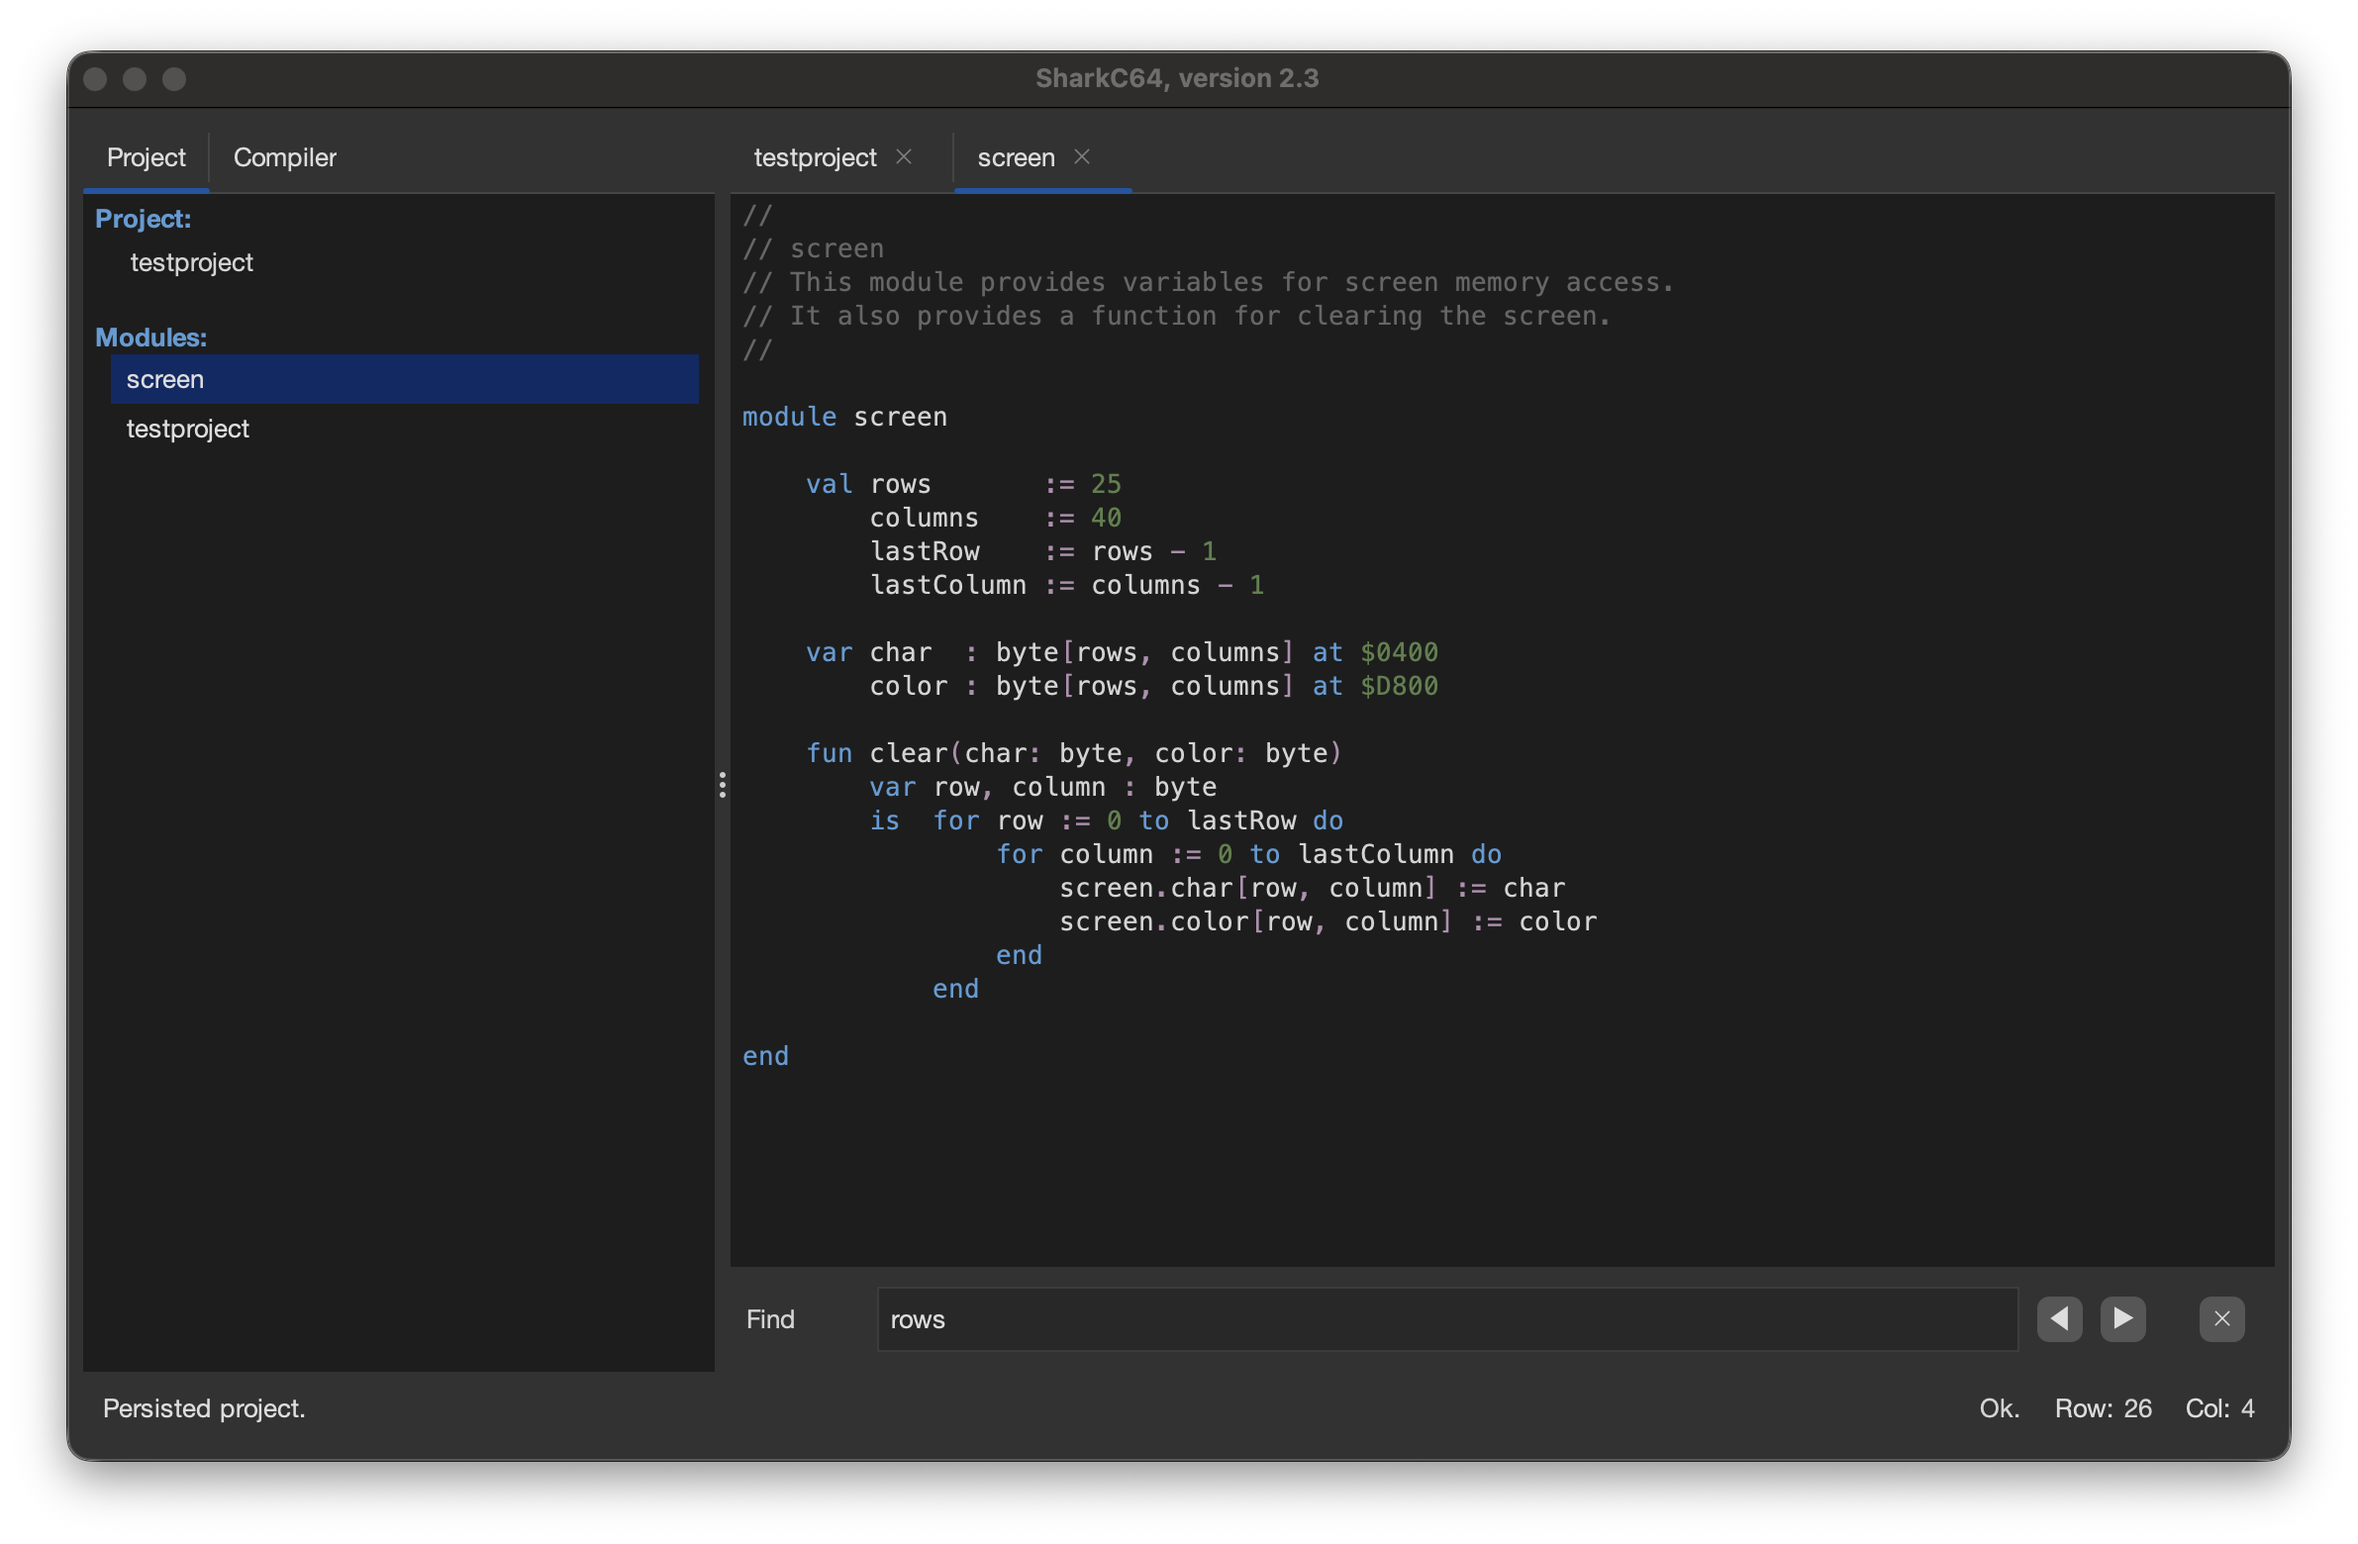
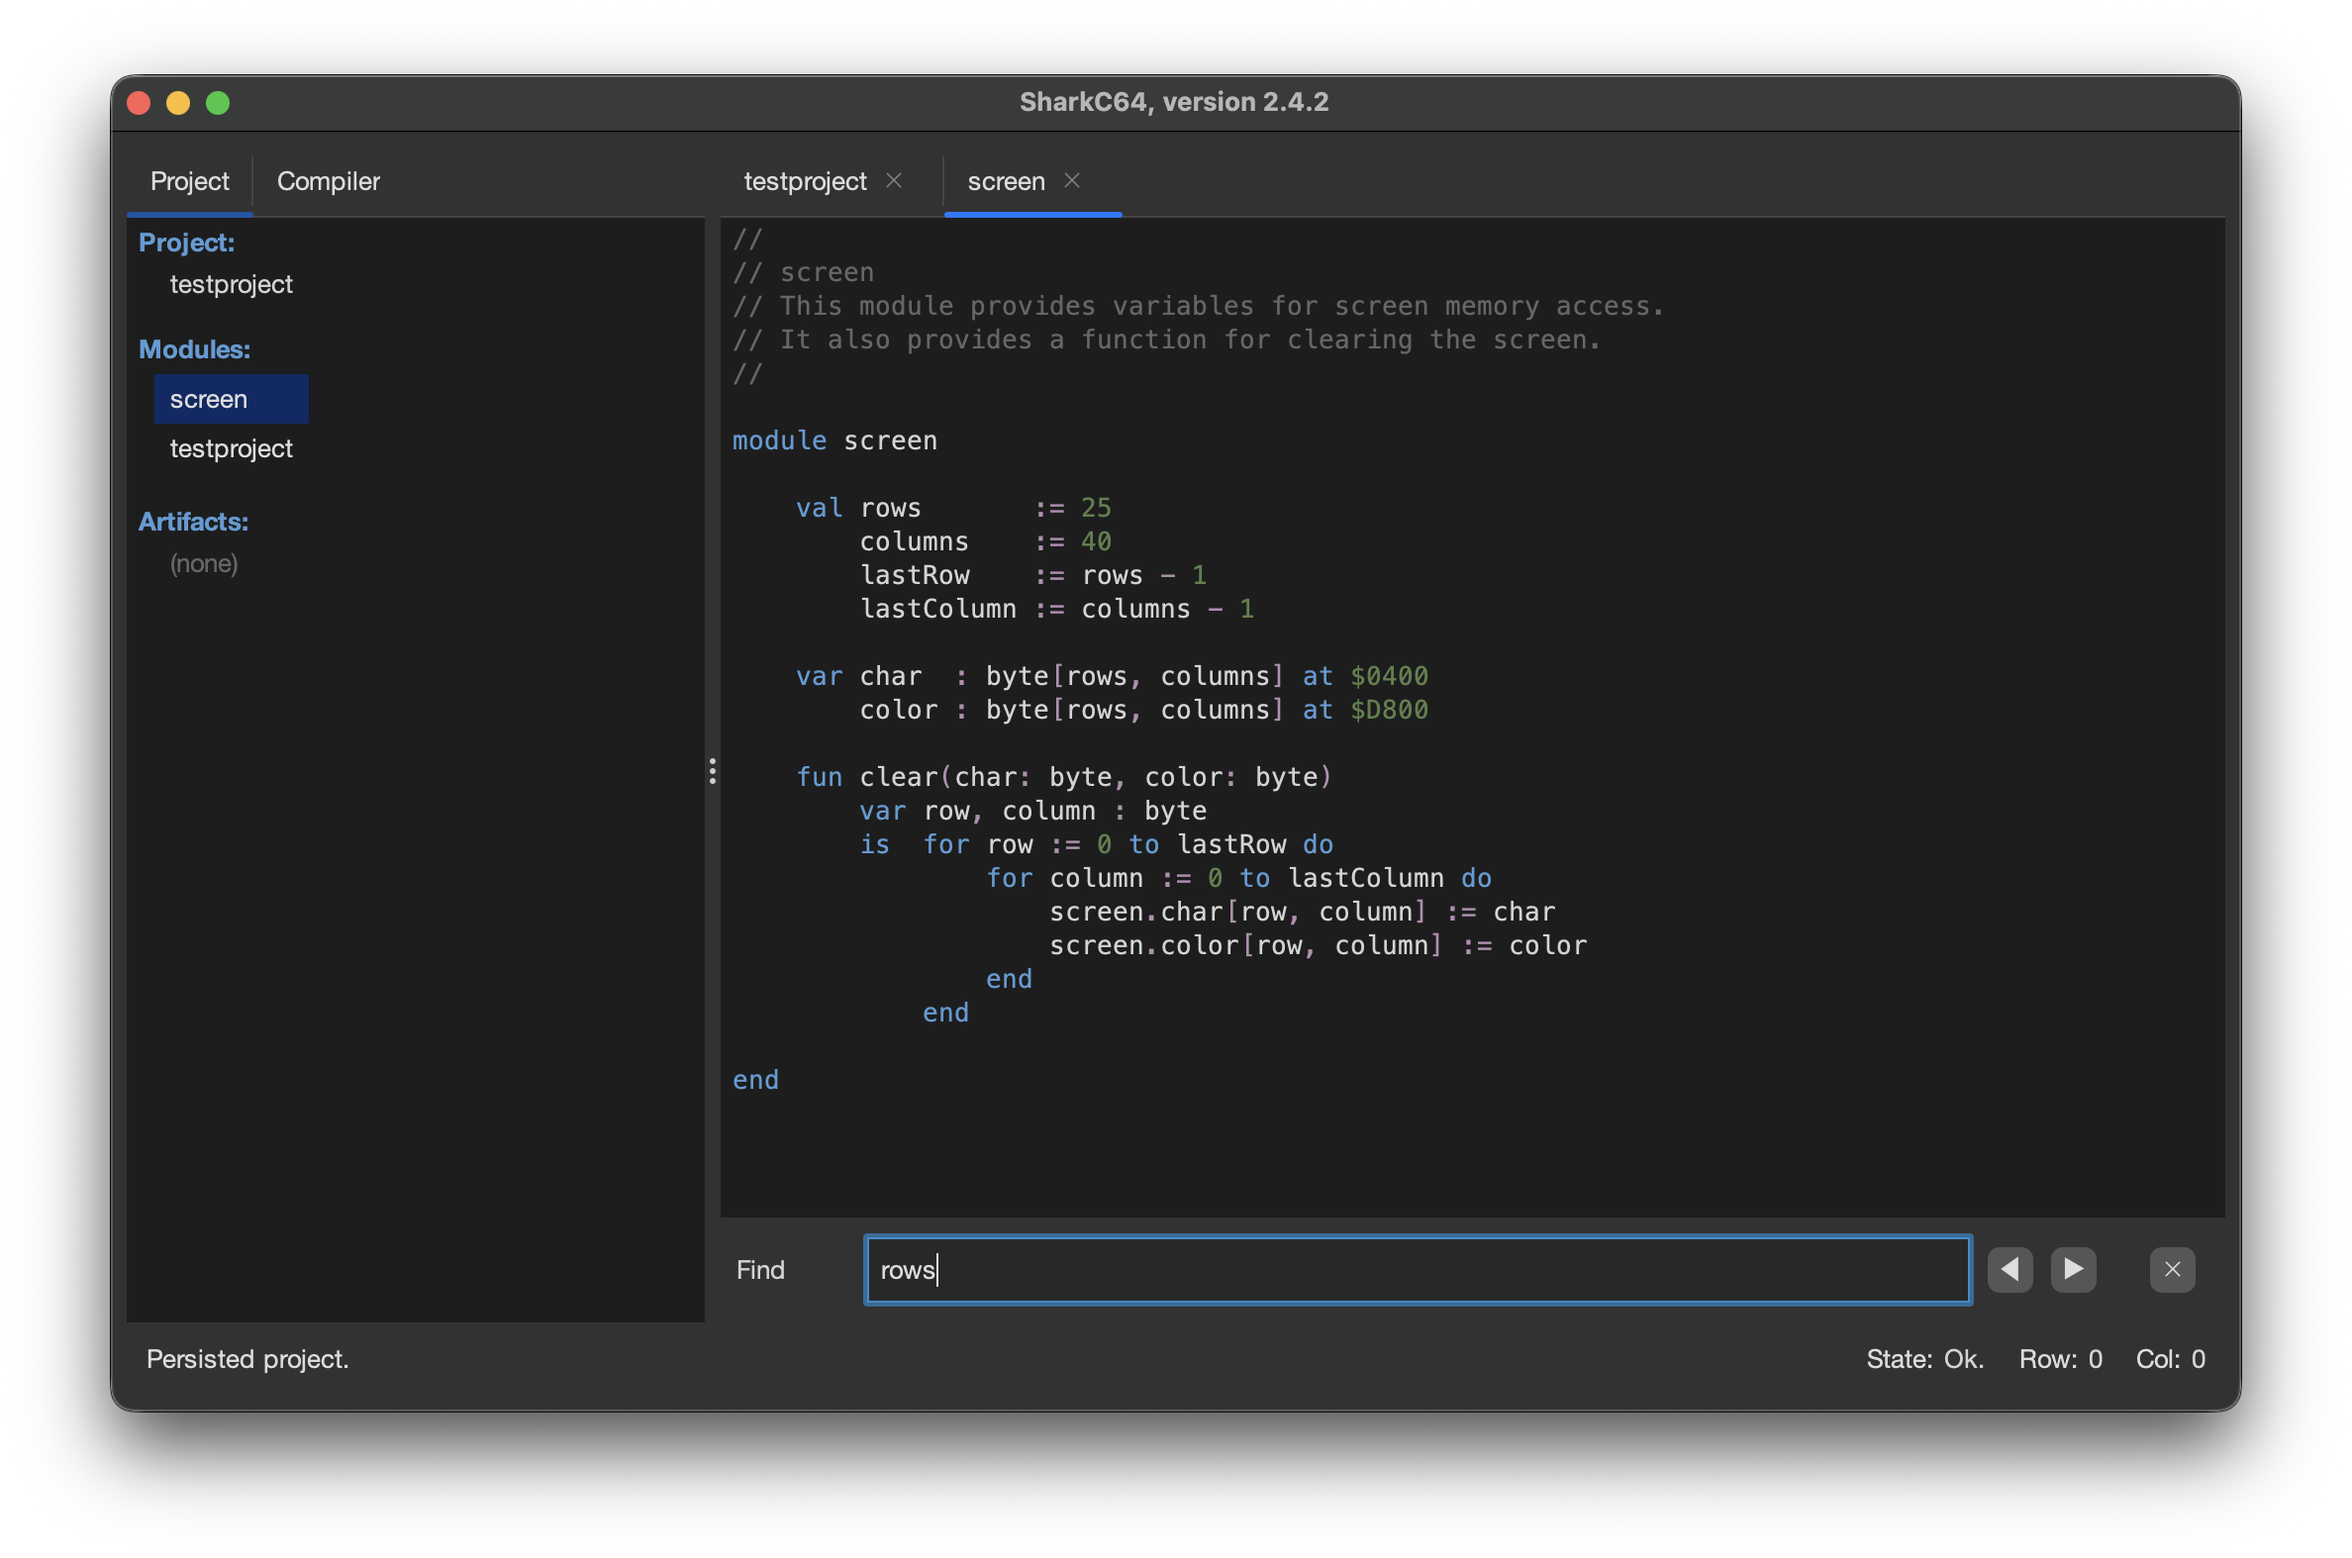
version 2.4.2

diff --git a/docs/ide/examples/examples.md b/docs/ide/examples/examples.md
@@ -1,6 +1,16 @@
-# List of examples
+# List of reference projects and examples
 
-The following code snippets illustrate the use of specific SharkC64 language features.
+Below is the list of available reference projects for SharkC64.
+You can download a reference project by selecting "Download Reference Project..." from the Help menu.
+
+| Name       | Description                                                         | Added |
+|------------|---------------------------------------------------------------------|-------|
+| pingpong   | A classic breakout-like game demonstrating access to screen memory. | 1.0   |
+| lunardrift | A classic lander-like game demonstrating use of sprites.            | 2.4.1 |
+
+There are also short example code snippets available.
+Below is a lost of the code snippets illustrating the use of specific SharkC64 language features.
+You can download an example code snippet by seleting the "Download Example..." item from the Help menu.
 
 | Name                                           | How to ...                                    | Added  |
 |------------------------------------------------|-----------------------------------------------|--------|

diff --git a/docs/ide/designer/diagram.md b/docs/ide/designer/diagram.md
@@ -7,7 +7,7 @@ You can open a module dependency diagram for a persisted project from the design
 To open the module dependency diagram for a persisted project, select the "Module Diagram" item.
 It first builds the entire project and then opens a dependency diagram based on the built information.
 The diagram is shown in the Editor view. 
-For instance, for the pingpong project, the module dependency diagram looks like this.
+For instance, for the lunardrift project, the module dependency diagram looks like this.
 
 ![Module dependency diagram](../../images/diagram/dependency-diagram.png)
 
@@ -27,9 +27,9 @@ This information helps in refining the implementation to minimize unwanted depen
 
 If you click an element in a highlighted module in the diagram, the corresponding module
 is opened in the editor with the element selected. For instance, in the image above,
-if you click the onPlayground element, it is shown in the editor.
+if you click the thrustDown element, it is shown in the editor.
 
-![Editor with select element](../../images/diagram/editor-onplayground.png)
+![Editor with select element](../../images/diagram/editor-thrustdown.png)
 
 
 

diff --git a/docs/ide/designer/sprites.md b/docs/ide/designer/sprites.md
@@ -4,13 +4,10 @@ You can open the sprite editor for a persisted project from the designer menu.
 
 ![Designer menu](../../images/menu/designer.png)
 
+All sprites are always stored into a module called "sprites".
+It is an artifact module and shown among artifacts in the project tab.
 When you open the sprite editor for the first time in a project,
-it asks a module name for storing the sprites.
-
-![Module dialog](../../images/sprites/module-dialog.png)
-
-Once you give a name for the module, it appears in the project explorer tab
-along with a sprite editor shown in the editor view.
+the module is created automatically and a sprite editor shown in the editor view.
 
 ![Sprite editor](../../images/sprites/sprite-editor.png)
 

diff --git a/docs/roadmap/history.md b/docs/roadmap/history.md
@@ -1,10 +1,17 @@
 # Release history
 
+## version 2.4.2 published July 18, 2026
+- Added artifact section to project tab in explorer view
+- Fixed issue with sprite synchronization
+- Breaking change: sprites are always stored into a module called "sprites"
+- Added artifact filter to module diagram
+
 ## version 2.4.1 published June 27, 2026
 - Added downloading of reference projects
 - Refined find/replace text fields
 - Optimized compiler to ignore unused functions, arrays, and variables
 - Showing program statistics after successful compilation
+- Added reference project: Lunar Drift
 
 ## version 2.4 published on June 11, 2026
 - Breaking change: "hide" is now "own"

diff --git a/docs/index.md b/docs/index.md
@@ -49,7 +49,7 @@ The SharkC64 IDE is published under MIT license.
    2. Working with Examples
       1. [Downloading an example](ide/examples/download-example.md)
       2. [Running a downloaded example](ide/examples/run-example.md)
-      3. [List of examples](ide/examples/examples.md)
+      3. [List of reference projects and examples](ide/examples/examples.md)
    3. Working with Projects
       1. [Creating a new project](ide/projects/new-project.md)
       2. [Persisting a transient project](ide/projects/persist-project.md)

diff --git a/docs/ide/projects/add-module.md b/docs/ide/projects/add-module.md
@@ -11,7 +11,7 @@ The name must start with a letter, and it can contain only letters and numbers.
 ![New module dialog](../../images/dialog/new-module.png)
 
 Once, you give a valid module name, the module is created and added to the project.
-It shows in Project tab, in the explorer view. The new module is also opened in the editor view.
+It shows in Project tab, in the modules sections of the explorer view. The new module is also opened in the editor view.
 
 ![New module in the project](../../images/project/new-module.png)
 

diff --git a/docs/ide/examples/download-example.md b/docs/ide/examples/download-example.md
@@ -25,7 +25,7 @@ SharkC64 provides also entire reference projects to download and experiment with
 Each project consists of several modules.
 
 To download a reference project, select "Download Reference Project..." from the Help menu. 
-When you select it, a dialog is shown that lets you select the project to be downloaded. 
+When you select it, a dialog is shown that lets you select the project to be downloaded.
 
 ![Example project download dialog](../../images/dialog/download-project.png)
 

diff --git a/docs/ide/projects/revert-module.md b/docs/ide/projects/revert-module.md
@@ -7,7 +7,7 @@ when you opened it. This can be done from the File menu.
 
 When you have changes in a module, the status bar indicates that with the state "Modified".
 
-![Some changes in a module](../../images/project/some-changes-in-module.png)
+![Some changes in a module](../../images/project/changes-in-module.png)
 
 To revert all the changes in a module, select the "Revert" item from the File menu.
 Then, a dialog is opened to confirm the revert action.

diff --git a/docs/roadmap/future.md b/docs/roadmap/future.md
@@ -1,7 +1,7 @@
 # Future plans
 
 ### Next release
-- Improving the project view 
+- Improving more the project view 
 
 ### Backlog
 - Support for screen designs
